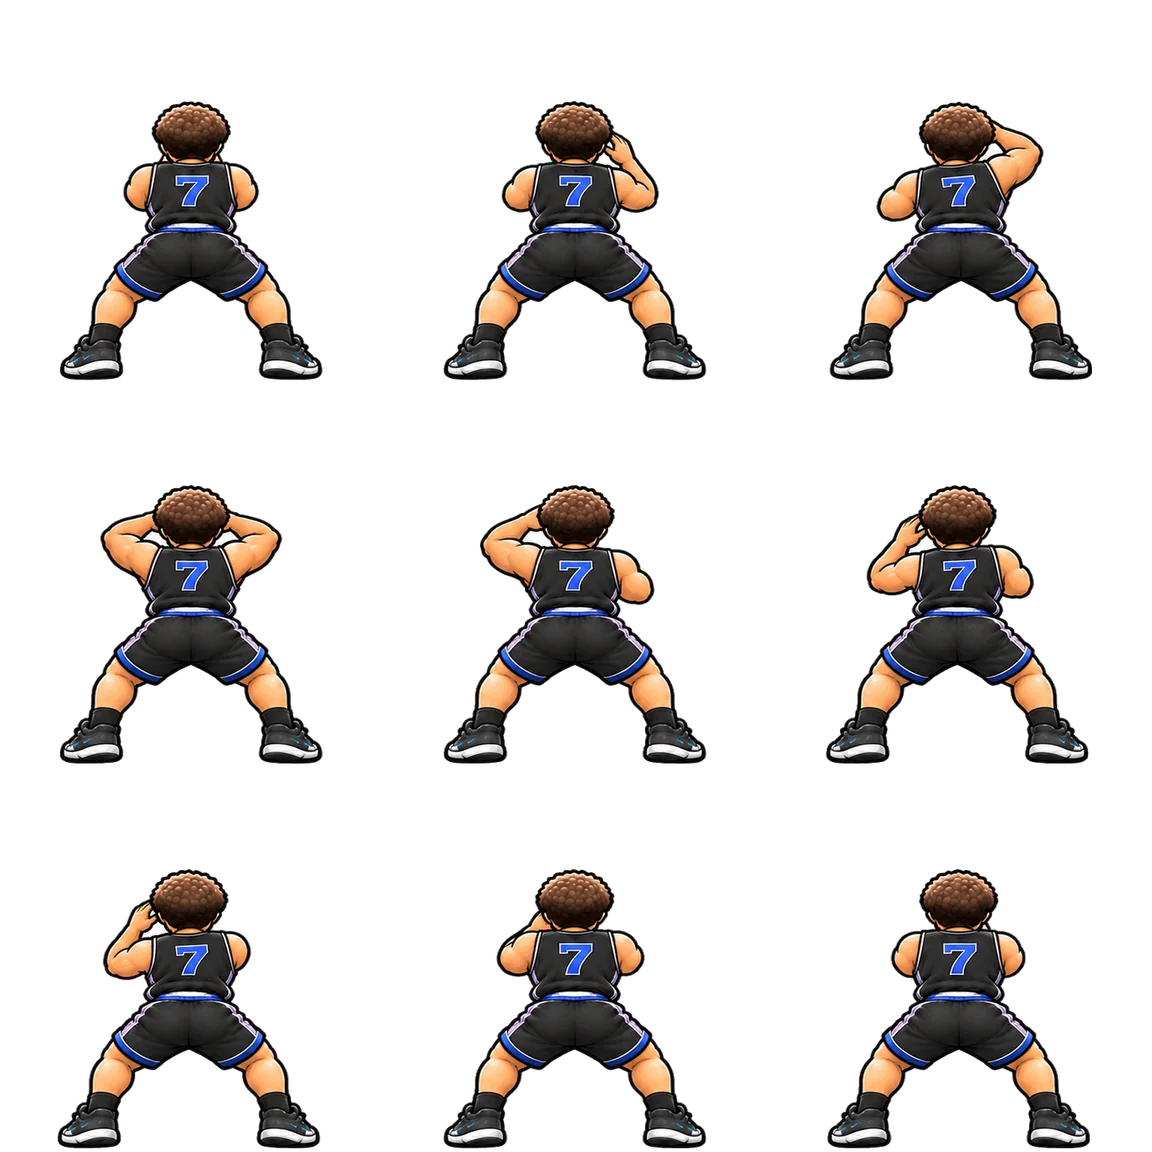
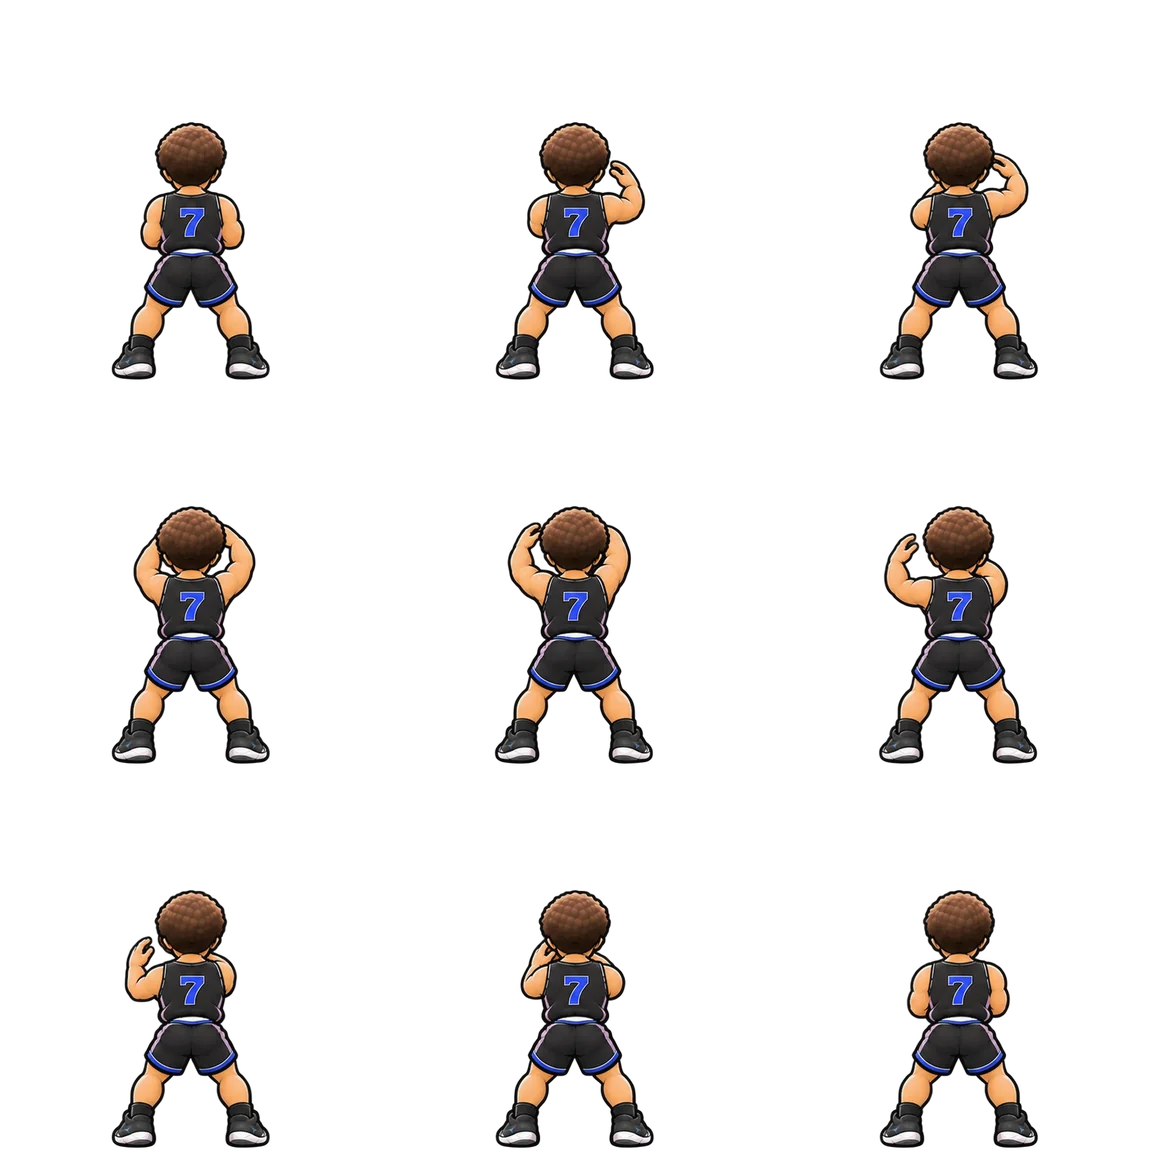
ドリブル（腰・膝の高さ）・頭まわり・腰まわりの絵を差し替え。ボールは絵の位置に合わせて手と頂点をそろえる
Claude-Session: https://claude.ai/code/session_01BV7VTayadibtSK45JjDBAS

diff --git a/js/sprite7.js b/js/sprite7.js
@@ -2,9 +2,11 @@ import { comboState } from './data.js';
 // あたらしい しゅじんこう（7ばん）の 絵の コマえらびと ボールの いち
 // ・シートは 3×3（1コマ 512px ＝ 2.2）。うしろすがた。x は 画面の 右が ＋、y は 足元が 0、z は カメラがわ（せなか がわ）が ＋
 // ・P は コマごとの 手（L/R）と、もとの 絵に かいてあった ボール（ball：x, y, 見えていた わりあい）の いち（/tmp/n7/build2.py で はかった）
-export const SHEETS7 = ["drib2R", "cross", "turnL", "turnR", "inoutR", "inoutL", "behind", "behindL", "legs", "side", "jabR", "jabL", "spin", "head", "waist", "knees", "eight"]; // つかう シートだけ よみこむ
+export const SHEETS7 = ["drib2R", "cross", "turnL", "turnR", "inoutR", "inoutL", "behind", "behindL", "nrmR", "nrmL", "lowR", "lowL", "legs", "side", "jabR", "jabL", "spin", "head", "waist", "knees", "eight"]; // つかう シートだけ よみこむ
 const P = {"dribR":[{"L":[-0.463,0.463],"R":[0.438,0.451]},{"L":[-0.368,0.686],"R":[0.569,0.343]},{"L":[-0.376,0.729],"R":[0.638,0.305]},{"L":[-0.572,0.845],"R":[0.616,0.235]},{"L":[-0.529,0.687],"R":[0.516,0.416]},{"L":[-0.563,0.625],"R":[0.59,0.452]},{"L":[-0.57,0.482],"R":[0.541,0.423]},{"L":[-0.533,0.405],"R":[0.481,0.442]},{"L":[-0.483,0.419],"R":[0.471,0.43]}],"dribL":[{"L":[-0.442,0.451],"R":[0.458,0.463]},{"L":[-0.573,0.343],"R":[0.365,0.686]},{"L":[-0.642,0.305],"R":[0.372,0.729]},{"L":[-0.62,0.236],"R":[0.568,0.846]},{"L":[-0.52,0.416],"R":[0.525,0.687]},{"L":[-0.594,0.452],"R":[0.558,0.625]},{"L":[-0.545,0.423],"R":[0.566,0.482]},{"L":[-0.485,0.442],"R":[0.529,0.405]},{"L":[-0.475,0.43],"R":[0.478,0.419]}],"drib2R":[{"L":[-0.545,0.461],"R":[0.525,0.462]},{"L":[-0.594,0.582],"R":[0.55,0.421]},{"L":[-0.623,0.68],"R":[0.69,0.293]},{"L":[-0.626,0.77],"R":[0.558,0.212]},{"L":[-0.592,0.705],"R":[0.599,0.356]},{"L":[-0.575,0.591],"R":[0.575,0.432]},{"L":[-0.558,0.557],"R":[0.556,0.542]},{"L":[-0.544,0.547],"R":[0.596,0.523]},{"L":[-0.532,0.493],"R":[0.537,0.505]}],"drib2L":[{"L":[-0.529,0.462],"R":[0.54,0.461]},{"L":[-0.554,0.42],"R":[0.59,0.583]},{"L":[-0.694,0.293],"R":[0.619,0.68]},{"L":[-0.562,0.212],"R":[0.622,0.771]},{"L":[-0.603,0.356],"R":[0.587,0.706]},{"L":[-0.579,0.431],"R":[0.571,0.591]},{"L":[-0.561,0.542],"R":[0.554,0.556]},{"L":[-0.601,0.523],"R":[0.539,0.547]},{"L":[-0.542,0.505],"R":[0.527,0.493]}],"cross":[{"L":[-0.517,0.513],"R":[0.56,0.459]},{"L":[-0.539,0.484],"R":[0.701,0.47]},{"L":[-0.516,0.65],"R":[0.894,0.62]},{"L":[-0.704,0.789],"R":[0.94,0.637]},{"L":[-0.723,0.781],"R":[0.679,0.636]},{"L":[-0.609,0.647],"R":[0.335,0.706]},{"L":[-0.676,0.513],"R":[0.339,0.715]},{"L":[-0.845,0.539],"R":[0.402,0.666]},{"L":[-0.688,0.46],"R":[0.608,0.444]}],"turnL":[{"L":[-0.464,0.475],"R":[0.394,0.462]},{"L":[-0.498,0.535],"R":[0.44,0.613]},{"L":[-0.507,0.628],"R":[0.581,0.654]},{"L":[-0.532,0.794],"R":[0.478,0.803]},{"L":[-0.519,0.679],"R":[0.466,0.69]},{"L":[-0.553,0.549],"R":[0.298,0.732]},{"L":[-0.112,1.115],"R":[0.41,0.695]},{"L":[-0.127,1.094],"R":[0.33,0.606]},{"L":[-0.231,1.053],"R":[0.365,0.631]}],"turnR":[{"L":[-0.399,0.462],"R":[0.459,0.475]},{"L":[-0.445,0.613],"R":[0.494,0.535]},{"L":[-0.585,0.654],"R":[0.503,0.628]},{"L":[-0.483,0.803],"R":[0.527,0.794]},{"L":[-0.471,0.69],"R":[0.515,0.679]},{"L":[-0.302,0.732],"R":[0.549,0.549]},{"L":[-0.416,0.695],"R":[0.108,1.115]},{"L":[-0.336,0.606],"R":[0.123,1.094]},{"L":[-0.369,0.631],"R":[0.204,1.056]}],"inoutR":[{"L":[-0.461,0.488],"R":[0.351,0.504]},{"L":[-0.447,0.538],"R":[0.591,0.591]},{"L":[-0.514,0.548],"R":[0.627,0.78]},{"L":[-0.461,0.538],"R":[0.624,0.818]},{"L":[-0.487,0.484],"R":[0.521,0.577]},{"L":[-0.543,0.468],"R":[0.375,0.615]},{"L":[-0.53,0.469],"R":[0.336,0.616]},{"L":[-0.69,0.792],"R":[0.438,0.598]},{"L":[-0.715,0.755],"R":[0.431,0.609]}],"inoutL":[{"L":[-0.355,0.504],"R":[0.457,0.488]},{"L":[-0.595,0.591],"R":[0.443,0.538]},{"L":[-0.631,0.78],"R":[0.511,0.548]},{"L":[-0.628,0.818],"R":[0.457,0.538]},{"L":[-0.525,0.577],"R":[0.482,0.484]},{"L":[-0.38,0.615],"R":[0.538,0.468]},{"L":[-0.341,0.616],"R":[0.526,0.469]},{"L":[-0.443,0.598],"R":[0.686,0.792]},{"L":[-0.436,0.609],"R":[0.711,0.754]}],"behind":[{"ball":[0.487,0.429,0.75],"L":[-0.58,0.472],"R":[0.362,0.365]},{"ball":[0.403,0.533,0.54],"L":[-0.628,0.516],"R":[0.626,0.612]},{"ball":[0.011,0.525,0.79],"L":[-0.646,0.638],"R":[-0.041,0.57]},{"ball":[-0.054,0.575,0.78],"L":[-0.687,0.667],"R":[-0.043,0.616]},{"ball":[-0.442,0.563,0.52],"L":[-0.657,0.654],"R":[0.565,0.589]},{"ball":[-0.634,0.609,0.89],"L":[-0.774,0.65],"R":[0.583,0.563]},{"ball":[-0.6,0.55,0.92],"L":[-0.75,0.581],"R":[0.547,0.592]},{"ball":[-0.628,0.463,0.78],"L":[-0.719,0.504],"R":[0.555,0.587]},{"L":[-0.588,0.471],"R":[0.527,0.461]}],"legs":[{"ball":[0.407,0.56,0.8],"L":[-0.478,0.377],"R":[0.347,0.331]},{"ball":[0.511,0.381,0.77],"L":[-0.502,0.429],"R":[0.479,0.356]},{"ball":[-0.042,0.299,0.85],"L":[-0.458,0.403],"R":[0.047,0.344]},{"ball":[0.026,0.276,0.88],"L":[-0.318,0.695],"R":[0.114,0.328]},{"ball":[-0.144,0.269,0.95],"L":[-0.426,0.603],"R":[0.275,0.693]},{"ball":[-0.502,0.414,0.6],"L":[-0.62,0.468],"R":[0.546,0.49]},{"ball":[-0.511,0.515,0.81],"L":[-0.627,0.583],"R":[0.484,0.464]},{"ball":[-0.573,0.464,0.93],"L":[-0.487,0.382],"R":[0.475,0.427]},{"ball":[-0.503,0.457,0.68],"L":[-0.442,0.376],"R":[0.547,0.459]}],"side":[{"L":[-0.528,0.509],"R":[0.522,0.523]},{"L":[-0.417,0.729],"R":[0.584,0.501]},{"L":[-0.36,0.765],"R":[0.157,1.151]},{"L":[-0.52,0.725],"R":[0.157,1.14]},{"L":[-0.574,0.668],"R":[0.126,1.088]},{"L":[-0.534,0.566],"R":[0.398,0.704]},{"L":[-0.694,0.713],"R":[0.274,0.774]},{"L":[-0.71,0.685],"R":[0.269,0.825]},{"L":[-0.508,0.579],"R":[0.561,0.554]}],"stepR":[{"L":[-0.417,0.659],"R":[0.389,0.65]},{"L":[-0.432,0.708],"R":[0.437,0.697]},{"L":[-0.503,0.709],"R":[0.407,0.702]},{"L":[-0.522,0.707],"R":[0.428,0.708]},{"L":[-0.554,0.71],"R":[0.427,0.7]},{"L":[-0.513,0.707],"R":[0.426,0.699]},{"L":[-0.525,0.728],"R":[0.397,0.741]},{"L":[-0.486,0.719],"R":[0.382,0.712]},{"L":[-0.42,0.71],"R":[0.373,0.703]}],"stepL":[{"L":[-0.529,0.657],"R":[0.421,0.689]},{"L":[-0.557,0.69],"R":[0.46,0.683]},{"L":[-0.571,0.705],"R":[0.471,0.694]},{"L":[-0.58,0.684],"R":[0.498,0.671]},{"L":[-0.587,0.678],"R":[0.502,0.675]},{"L":[-0.565,0.69],"R":[0.495,0.685]},{"L":[-0.552,0.691],"R":[0.514,0.678]},{"L":[-0.506,0.673],"R":[0.464,0.679]},{"L":[-0.449,0.657],"R":[0.468,0.681]}],"jabR":[{"L":[-0.433,0.458],"R":[0.417,0.455]},{"L":[-0.501,0.54],"R":[0.541,0.406]},{"L":[-0.51,0.571],"R":[0.692,0.52]},{"L":[-0.576,0.627],"R":[0.749,0.567]},{"L":[-0.559,0.604],"R":[0.487,0.478]},{"L":[-0.473,0.564],"R":[0.448,0.503]},{"L":[-0.528,0.538],"R":[0.32,0.638]},{"L":[-0.484,0.507],"R":[0.457,0.511]},{"L":[-0.48,0.475],"R":[0.451,0.477]}],"jabL":[{"L":[-0.421,0.455],"R":[0.429,0.458]},{"L":[-0.546,0.406],"R":[0.497,0.54]},{"L":[-0.696,0.52],"R":[0.506,0.571]},{"L":[-0.754,0.567],"R":[0.572,0.627]},{"L":[-0.491,0.477],"R":[0.554,0.604]},{"L":[-0.452,0.503],"R":[0.469,0.564]},{"L":[-0.324,0.638],"R":[0.523,0.538]},{"L":[-0.461,0.511],"R":[0.48,0.507]},{"L":[-0.455,0.477],"R":[0.476,0.475]}],"spin":[{"L":[-0.496,0.672],"R":[0.405,0.672]},{"L":[-0.31,0.719],"R":[0.546,0.697]},{"L":[-0.238,0.796],"R":[0.109,1.065]},{"L":[-0.176,0.877],"R":[0.228,1.099]},{"R":[0.405,1.056]},{"L":[-0.428,0.716],"R":[0.176,1.078]},{"L":[-0.61,0.74],"R":[0.354,0.696]},{"L":[-0.56,0.721],"R":[0.445,0.665]},{"L":[-0.519,0.641],"R":[0.494,0.67]}],"jstop":[{"L":[-0.407,0.59],"R":[0.427,0.596]},{"L":[-0.436,0.719],"R":[0.459,0.743]},{"L":[-0.437,0.773],"R":[0.478,0.803]},{"L":[-0.474,0.709],"R":[0.484,0.733]},{"L":[-0.47,0.64],"R":[0.473,0.643]},{"L":[-0.466,0.728],"R":[0.46,0.725]},{"L":[-0.472,0.71],"R":[0.436,0.718]},{"L":[-0.465,0.654],"R":[0.448,0.652]},{"L":[-0.485,0.591],"R":[0.438,0.591]}],"head":[{"L":[-0.314,1.056],"R":[0.3,1.053]},{"L":[-0.333,1.046],"R":[0.356,1.046]},{"L":[-0.373,0.987],"R":[0.327,1.306]},{"L":[-0.383,1.255],"R":[0.361,1.262]},{"L":[-0.404,1.241],"R":[0.344,0.995]},{"L":[-0.417,1.052],"R":[0.326,1.029]},{"L":[-0.391,1.047],"R":[0.269,1.101]},{"L":[-0.207,1.283],"R":[0.304,1.073]},{"L":[-0.315,1.065],"R":[0.295,1.063]}],"waist":[{"ball":[-0.008,0.635,0.84]},{"ball":[0.341,0.629,0.8],"L":[-0.236,0.719],"R":[0.51,0.651]},{"ball":[0.398,0.704,0.94],"L":[-0.398,0.571],"R":[0.506,0.71]},{"ball":[0.411,0.694,0.92],"L":[-0.453,0.494],"R":[0.522,0.691]},{"ball":[-0.033,0.622,0.88],"L":[-0.042,0.627],"R":[0.359,0.59]},{"ball":[-0.429,0.66,0.89],"L":[-0.544,0.646],"R":[0.415,0.562]},{"ball":[-0.488,0.613,0.94],"L":[-0.642,0.638],"R":[0.399,0.602]},{"ball":[-0.464,0.588,0.8],"L":[-0.602,0.596],"R":[0.219,0.742]},{"ball":[-0.014,0.601,0.84]}],"knees":[{"L":[-0.239,0.43],"R":[0.208,0.437]},{"L":[-0.246,0.422],"R":[0.305,0.431]},{"L":[-0.253,0.412],"R":[0.398,0.416]},{"L":[-0.245,0.407],"R":[0.332,0.467]},{"L":[-0.256,0.388],"R":[0.218,0.393]},{"L":[-0.337,0.402],"R":[0.253,0.619]},{"L":[-0.45,0.445],"R":[0.249,0.643]},{"L":[-0.44,0.425],"R":[0.205,0.458]},{"L":[-0.239,0.426],"R":[0.216,0.429]}],"eight":[{"L":[-0.484,0.432],"R":[0.219,0.71]},{"L":[-0.521,0.424],"R":[0.223,0.7]},{"L":[-0.535,0.424],"R":[0.509,0.401]},{"L":[-0.541,0.444],"R":[0.535,0.467]},{"L":[-0.54,0.472],"R":[0.392,0.558]},{"L":[-0.541,0.474],"R":[0.223,0.693]},{"L":[-0.555,0.449],"R":[0.257,0.658]},{"L":[-0.609,0.444],"R":[0.27,0.651]},{"L":[-0.536,0.437],"R":[0.259,0.663]}]};
 
+// ふつう・ひくい ドリブルの 絵（2026-11-18 さしかえ）：コマごとに 絵に かいてあった ボールの いち（ボールの 高い じゅん）
+Object.assign(P, {"nrmR":[{"ball":[0.462,0.761,0.212]},{"ball":[0.569,0.638,0.15]},{"ball":[0.559,0.631,0.153]},{"ball":[0.566,0.63,0.155]},{"ball":[0.533,0.61,0.222]},{"ball":[0.542,0.595,0.165]},{"ball":[0.546,0.566,0.154]},{"ball":[0.502,0.516,0.146]},{"ball":[0.55,0.508,0.149]}],"nrmL":[{"ball":[-0.487,0.676,0.215]},{"ball":[-0.477,0.675,0.214]},{"ball":[-0.436,0.664,0.21]},{"ball":[-0.468,0.61,0.177]},{"ball":[-0.503,0.58,0.168]},{"ball":[-0.529,0.54,0.149]}],"lowR":[{"ball":[0.537,0.533,0.146]},{"ball":[0.462,0.503,0.203]},{"ball":[0.486,0.448,0.145]},{"ball":[0.496,0.43,0.143]},{"ball":[0.485,0.427,0.142]},{"ball":[0.451,0.419,0.181]},{"ball":[0.487,0.402,0.145]},{"ball":[0.484,0.402,0.141]}],"lowL":[{"ball":[-0.507,0.515,0.194]},{"ball":[-0.503,0.477,0.188]},{"ball":[-0.459,0.418,0.129]},{"ball":[-0.415,0.404,0.15]},{"ball":[-0.541,0.398,0.159]},{"ball":[-0.502,0.373,0.18]},{"ball":[-0.509,0.352,0.147]}]});
 // 左手の ビハインド：右手の 絵を 左右はんてんした シート（せばんごうの 7 は もとの むき）
 const mir = (a) => a && [-a[0], a[1], ...a.slice(2)];
 P.behindL = P.behind.map((f) => ({ L: mir(f.R), R: mir(f.L), ...(f.ball ? { ball: mir(f.ball) } : {}) }));
@@ -17,6 +19,16 @@ function loop(out, sheet, ph, order, zs) {
   const a = P[sheet][order[i]], b = P[sheet][order[j]]; const ba = bpos(a, zs[i]), bb = bpos(b, zs[j]);
   out.sheet = sheet; out.f = order[k < 0.5 ? i : j];
   out.ball = { x: lerp(ba[0], bb[0], k), y: lerp(ba[1], bb[1], k), z: lerp(ba[2], bb[2], k) }; return out;
+}
+// ボールの 高さに あう コマを えらび、ボールは 絵の ボールの いちに あわせる（手と ボールの ちょうてんが そろう）
+function dribArt(out, sheet, t, strong) {
+  const F = P[sheet].filter((f) => f.ball); const top = F[0].ball[1], low = F[F.length - 1].ball[1];
+  const y = R + t * ((strong ? top + 0.06 : top) - R);
+  let i = F.length - 1; for (let j = 0; j < F.length; j++) { if (F[j].ball[1] <= y + 0.005) { i = j; break; } }
+  const a = F[Math.max(0, i - 1)].ball, b = F[i].ball; const k = a === b ? 0 : clamp((a[1] - y) / Math.max(0.001, a[1] - b[1]), 0, 1);
+  out.sheet = sheet; out.f = P[sheet].indexOf(y > low ? F[k < 0.5 ? Math.max(0, i - 1) : i] : F[F.length - 1]);
+  const x = y > low ? lerp(a[0], b[0], k) : F[F.length - 1].ball[0];
+  out.ball = { x, y: Math.min(y, top), z: -0.03 }; return out;
 }
 function bpos(f, z = 0.14) { if (f.ball) return [f.ball[0], f.ball[1], z]; const L = f.L || [0, 0.6], Rr = f.R || [0, 0.6]; return [(L[0] + Rr[0]) / 2, (L[1] + Rr[1]) / 2, z]; }
 const hand = (sheet, f, side) => { const d = P[sheet][f]; return (side < 0 ? d.L : d.R) || [side * 0.55, 0.45]; };
@@ -49,8 +61,8 @@ export function spritePose7(st) {
     // zs：ボールが からだの まえ（−、からだで かくれる）か せなかがわ（＋、見える）か
     // リアルな 絵（頭・ひざ・股下）：ボールは えんを えがいて うごかし、コマは ボールの いちに あわせて えらぶ
     const th = (ph % 1) * TAU, sn = Math.sin(th), cs = Math.cos(th), deg = (th / TAU) * 360;
-    if (sk.handle === 'head') { const pick = [[45, 0], [110, 1], [160, 2], [200, 3], [250, 4], [300, 5], [340, 6], [361, 8]].find((q) => deg < q[0])[1];
-      out.sheet = 'head'; out.f = pick; out.ball = { x: 0.28 * sn, y: 1.32 + 0.08 * Math.max(0, -cs), z: -0.24 * cs }; return out; }
+    if (sk.handle === 'head') { const pick = [[30, 0], [80, 1], [135, 2], [200, 3], [240, 4], [285, 5], [325, 6], [345, 7], [361, 8]].find((q) => deg < q[0])[1];
+      out.sheet = 'head'; out.f = pick; out.ball = { x: 0.34 * sn, y: 1.3 + 0.06 * Math.max(0, -cs), z: -0.24 * cs }; return out; }
     if (sk.handle === 'knees') { const x = 0.33 * sn, z = -0.24 * cs; out.sheet = 'knees';
       out.f = x > 0.25 ? 2 : x > 0.1 ? (z < 0 ? 1 : 3) : x < -0.25 ? 6 : x < -0.1 ? (z < 0 ? 5 : 7) : (z < 0 ? 0 : 4);
       out.ball = { x, y: 0.36, z }; return out; }
@@ -60,11 +72,8 @@ export function spritePose7(st) {
     if (sk.handle === 'eight') { const x = 0.5 * sn, z = -0.2 * Math.sin(2 * th); out.sheet = 'eight';
       out.f = Math.min(8, Math.floor((th / TAU) * 9)); out.ball = { x, y: 0.34 + 0.05 * Math.abs(sn), z: Math.abs(x) < 0.18 ? 0.06 : z }; return out; }
     if (sk.handle === 'wrap') { // こしの まわりを 1しゅう：まえ（からだで かくれる）→ みぎ → せなか（見える）→ ひだり
-      const x = 0.46 * sn, z = Math.abs(sn) > 0.65 ? 0.06 : -0.26 * cs; out.ball = { x, y: 0.62, z }; // よこは こしの よこで 見える
-      if (Math.abs(x) > 0.3) { out.sheet = 'waist'; out.f = x > 0 ? 2 : 6; }
-      else if (z > 0) { out.sheet = 'waist'; out.f = 4; }        // せなかの うしろ（両手が 見える）
-      else { out.sheet = 'cross'; out.f = 0; }                     // おなかの まえ（ボールは かくれる）
-      return out; }
+      const x = 0.5 * sn, z = Math.abs(sn) > 0.65 ? 0.06 : -0.26 * cs; out.ball = { x, y: z > 0 && Math.abs(sn) < 0.65 ? 0.5 : 0.6, z }; // よこは こしの よこ、うしろは おしりの うしろ
+      out.sheet = 'waist'; out.f = [[35, 0], [120, 5], [160, 4], [200, 3], [240, 6], [320, 1], [361, 8]].find((q) => deg < q[0])[1]; return out; }
     if (sk.handle === 'knees') return loop(out, 'knees', ph, [0, 8, 1, 2, 3, 4, 5, 6], ZP);
     const u = (Math.sin(Math.PI * cb) + 1) / 2; return loop(out, 'behind', u * 0.999 * 7 / 8, [0, 1, 2, 3, 4, 5, 6, 7], ZP); // うしろで ふる
   }
@@ -101,14 +110,12 @@ export function spritePose7(st) {
     return out;
   }
   let sh, f;
-  if (sk.low) { sh = side < 0 ? 'turnL' : 'turnR'; f = t > 0.6 ? 6 : t > 0.3 ? 7 : 8; out.sheet = sh; out.f = f; out.ball = { x: side * 0.66, y: dribY, z: FZ }; return out; }
+  if (sk.low) return dribArt(out, side < 0 ? 'lowL' : 'lowR', t, false); // ひくい ドリブル（ひざの 高さ）
   if (CROSS[k]) { sh = 'cross'; f = side > 0 ? (t > 0.5 ? 1 : 2) : (t > 0.5 ? 8 : 7); }
   else if (k === 'inout') { sh = side > 0 ? 'inoutR' : 'inoutL'; f = t > 0.66 ? 5 : t > 0.33 ? 1 : 2; }
   else { // ふつうの ドリブル：中くらいの 構え。絵に ボールが かいてない コマ（クロスオーバーの 左右の コマ）を つかい、ボールは 体の まえ（むこうがわ）
     // ボールが 上に あって 手に ふれている あいだ：手を ボールの 上に のせた コマ。ボールが はなれて 下に いる あいだ：手を すこし ひいた コマ
-    sh = 'cross'; f = t > 0.6 ? (side > 0 ? 1 : 8) : 0; out.sheet = sh; out.f = f;
-    const hx = Math.abs(hand(sh, side > 0 ? 1 : 8, side)[0]);
-    out.ball = { x: side * (hx + 0.04), y: R + t * (0.44 - R), z: -0.18 }; return out; // ボールは 足の よこの すこし 前（足に かくれない）
+    return dribArt(out, side < 0 ? 'nrmL' : 'nrmR', t, strong); // こしの 高さの ドリブル：手の ひらが ボールの ちょうてんに のる 絵
   }
   const h = hand(sh, f, side); out.sheet = sh; out.f = f;
   out.ball = { x: side * clamp(Math.abs(h[0]), 0.45, 0.8), y: dribY, z: behindT ? 0.02 : FZ - 0.1 * clamp(1 - ax / 0.42, 0, 1) };

diff --git a/js/scene.js b/js/scene.js
@@ -6,7 +6,7 @@ import { makeHuman } from './character.js';
 import { buildEnv } from './env.js';
 import { spritePose, SHEETS } from './sprite.js';
 import { spritePose7, SHEETS7 } from './sprite7.js';
-const SHEET_SC = { head: [0.86, 0.92], waist: [0.86, 0.92] }; const ONE_SC = [1, 1];
+const SHEET_SC = {}; const ONE_SC = [1, 1]; // あたらしい 頭・こしまわりの 絵は 大きさを そろえて つくった const ONE_SC = [1, 1];
 import { EffectComposer } from '../vendor/addons/postprocessing/EffectComposer.js';
 import { RenderPass } from '../vendor/addons/postprocessing/RenderPass.js';
 import { UnrealBloomPass } from '../vendor/addons/postprocessing/UnrealBloomPass.js';
